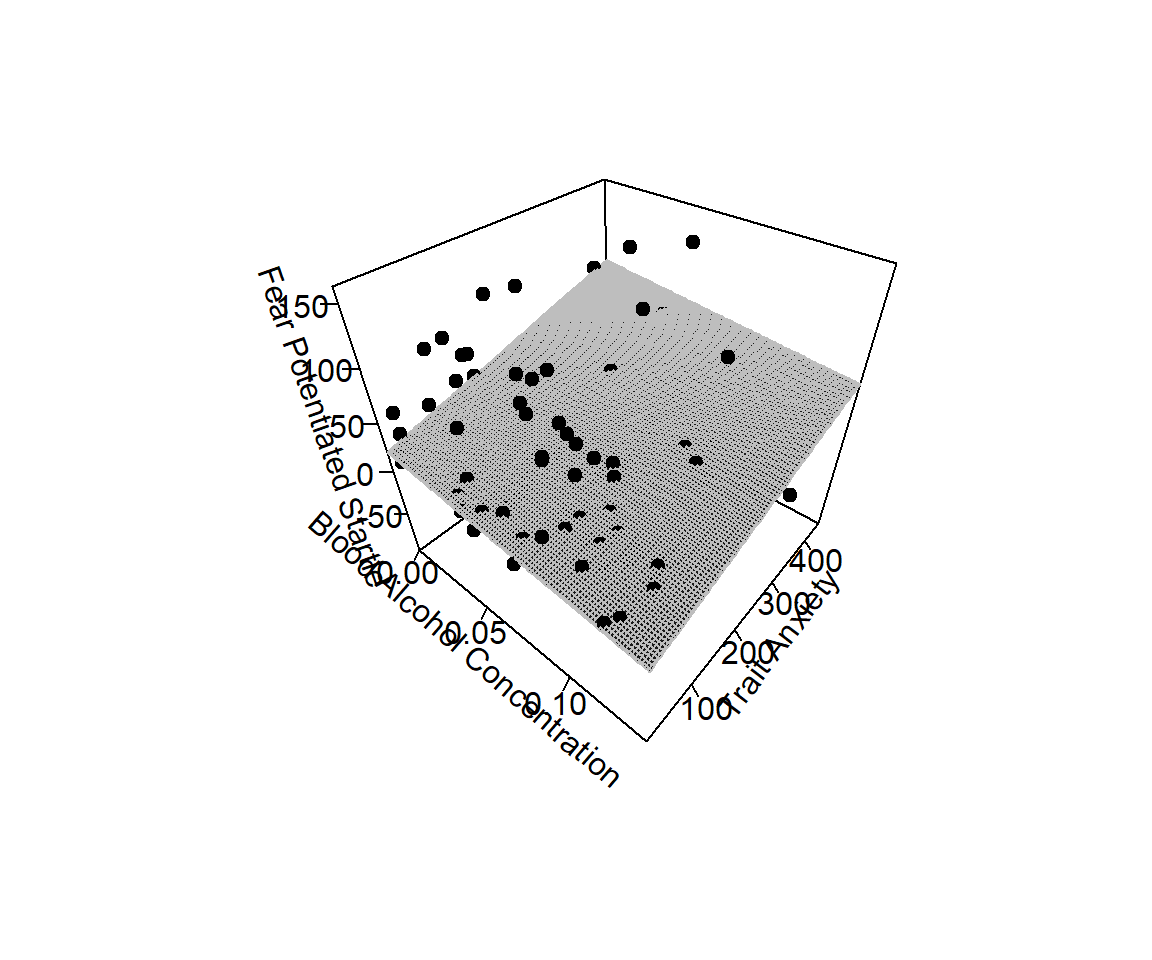
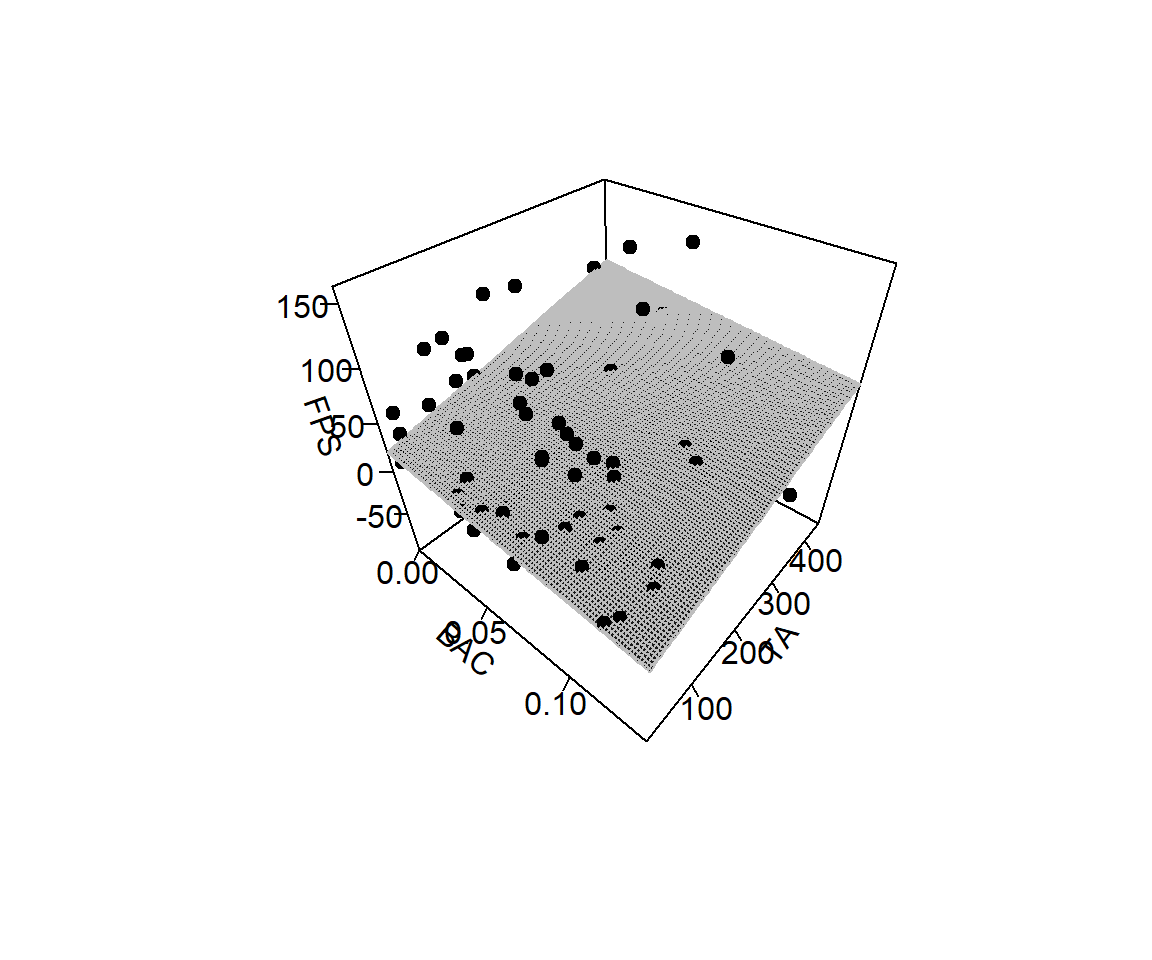
Built site for gh-pages

diff --git a/06_two_predictors.html b/06_two_predictors.html
@@ -1348,8 +1348,8 @@ exam                0.4 0.54 1.00</code></pre>
 <span id="cb64-9"><a href="#cb64-9" aria-hidden="true" tabindex="-1"></a><span class="st">"</span>)</span></code><button title="Copy to Clipboard" class="code-copy-button"><i class="bi"></i></button></pre></div>
 </details>
 <div class="cell-output-display">
-<div class="grViz html-widget html-fill-item" id="htmlwidget-e85ad8406a3094fdad87" style="width:100%;height:464px;"></div>
-<script type="application/json" data-for="htmlwidget-e85ad8406a3094fdad87">{"x":{"diagram":"\ndigraph{\n  graph[rankdir=LR]\n  node [shape = box, fontsize = 5, width = .5, height = .2]\n    A [label = \"study_hours\"]\n    Y [label = \"exam\"]\n    A->Y [label = \"2.34\", fontsize = 5]\n}\n","config":{"engine":"dot","options":null}},"evals":[],"jsHooks":[]}</script>
+<div class="grViz html-widget html-fill-item" id="htmlwidget-cad677f997378e2d7c34" style="width:100%;height:464px;"></div>
+<script type="application/json" data-for="htmlwidget-cad677f997378e2d7c34">{"x":{"diagram":"\ndigraph{\n  graph[rankdir=LR]\n  node [shape = box, fontsize = 5, width = .5, height = .2]\n    A [label = \"study_hours\"]\n    Y [label = \"exam\"]\n    A->Y [label = \"2.34\", fontsize = 5]\n}\n","config":{"engine":"dot","options":null}},"evals":[],"jsHooks":[]}</script>
 </div>
 </div>
 <hr>
@@ -1372,8 +1372,8 @@ exam                0.4 0.54 1.00</code></pre>
 <span id="cb65-13"><a href="#cb65-13" aria-hidden="true" tabindex="-1"></a><span class="st">"</span>)</span></code><button title="Copy to Clipboard" class="code-copy-button"><i class="bi"></i></button></pre></div>
 </details>
 <div class="cell-output-display">
-<div class="grViz html-widget html-fill-item" id="htmlwidget-f3e915c40c4d2edebd6c" style="width:100%;height:464px;"></div>
-<script type="application/json" data-for="htmlwidget-f3e915c40c4d2edebd6c">{"x":{"diagram":"\ndigraph{\n  graph[rankdir=LR]\n  node [shape = box, fontsize = 5, width = .5, height = .2]\n    A [label = \"study_hours\"]\n    B [label = \"iq\"]\n    Y [label = \"exam\"]\n    A->Y [label = \"1.04\", fontsize = 5]\n    B->Y [label = \".35\", fontsize = 5]\n    A->B [dir = both, label = \"3.75\", fontsize = 5]\n{ rank = same; A; B }\n}\n","config":{"engine":"dot","options":null}},"evals":[],"jsHooks":[]}</script>
+<div class="grViz html-widget html-fill-item" id="htmlwidget-325b44f9eb67326dd976" style="width:100%;height:464px;"></div>
+<script type="application/json" data-for="htmlwidget-325b44f9eb67326dd976">{"x":{"diagram":"\ndigraph{\n  graph[rankdir=LR]\n  node [shape = box, fontsize = 5, width = .5, height = .2]\n    A [label = \"study_hours\"]\n    B [label = \"iq\"]\n    Y [label = \"exam\"]\n    A->Y [label = \"1.04\", fontsize = 5]\n    B->Y [label = \".35\", fontsize = 5]\n    A->B [dir = both, label = \"3.75\", fontsize = 5]\n{ rank = same; A; B }\n}\n","config":{"engine":"dot","options":null}},"evals":[],"jsHooks":[]}</script>
 </div>
 </div>
 <p><strong>Direct + Indirect/Spurious = Total</strong></p>
@@ -1610,8 +1610,8 @@ Proportion of variance in <span class="math inline">\(Y\)</span> explained by th
 <span id="cb80-8"><a href="#cb80-8" aria-hidden="true" tabindex="-1"></a>                 <span class="at">ncol =</span> <span class="dv">100</span>)</span>
 <span id="cb80-9"><a href="#cb80-9" aria-hidden="true" tabindex="-1"></a></span>
 <span id="cb80-10"><a href="#cb80-10" aria-hidden="true" tabindex="-1"></a><span class="fu">scatter3D</span>(data<span class="sc">$</span>bac, data<span class="sc">$</span>ta, data<span class="sc">$</span>fps, <span class="at">pch =</span> <span class="dv">19</span>, <span class="at">col =</span> <span class="st">"black"</span>, <span class="at">ticktype =</span> <span class="st">"detailed"</span>,</span>
-<span id="cb80-11"><a href="#cb80-11" aria-hidden="true" tabindex="-1"></a>          <span class="at">xlab =</span> <span class="st">"Blood Alcohol Concentration"</span>, <span class="at">ylab =</span> <span class="st">"Trait Anxiety"</span>, </span>
-<span id="cb80-12"><a href="#cb80-12" aria-hidden="true" tabindex="-1"></a>          <span class="at">zlab =</span> <span class="st">"Fear Potentiated Startle"</span>,</span>
+<span id="cb80-11"><a href="#cb80-11" aria-hidden="true" tabindex="-1"></a>          <span class="at">xlab =</span> <span class="st">"BAC"</span>, <span class="at">ylab =</span> <span class="st">"TA"</span>, </span>
+<span id="cb80-12"><a href="#cb80-12" aria-hidden="true" tabindex="-1"></a>          <span class="at">zlab =</span> <span class="st">"FPS"</span>,</span>
 <span id="cb80-13"><a href="#cb80-13" aria-hidden="true" tabindex="-1"></a>          <span class="at">surf =</span> <span class="fu">list</span>(<span class="at">x =</span> preds_bac, <span class="at">y =</span> preds_ta, <span class="at">z =</span> preds_y, <span class="at">alpha =</span> .<span class="dv">9</span>, <span class="at">border =</span> <span class="st">"grey"</span>))</span></code><button title="Copy to Clipboard" class="code-copy-button"><i class="bi"></i></button></pre></div>
 </details>
 <div class="cell-output-display">
